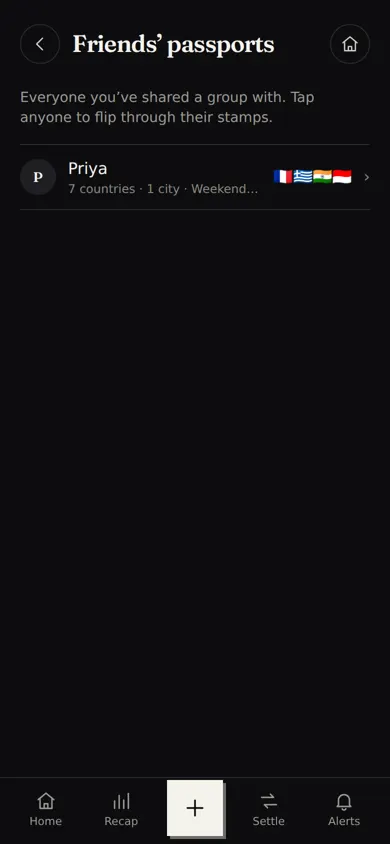
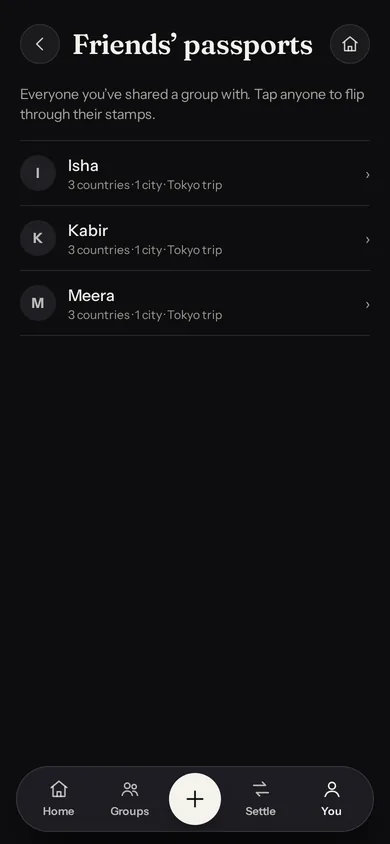
Guide: Tokyo trip and new-look pictures in How Loopin works (10 of 11), captions to match; the passport picture turns to the stamps page
Claude-Session: https://claude.ai/code/session_01DdYmojZ2oAK4s63cW98eWz

diff --git a/src/app/how-it-works/page.tsx b/src/app/how-it-works/page.tsx
@@ -301,7 +301,7 @@ export default async function HowItWorks() {
             <><strong>Moving out or in.</strong> Loopin works out their share for the days they stayed, who takes over their deposit, and the final payments.</>,
           ]}
         />
-        <Screen src="/guide/flat-month.webp" alt="A flat's This month screen: your share, what you're owed, and the bills coming up" caption="A flat’s “This month”: bills coming up, one tap to enter electricity" />
+        <Screen src="/guide/flat-month.webp" alt="A flat's This month screen: your share, what you're owed, and the bills coming up" caption="A flat’s “This month”: your share, what you’re owed, and bills, shopping, budget and deposit" />
         <p>Reminders (the day before a bill, and on your settle-up day) are off until you switch them on in the group’s settings.</p>
       </Section>
 
@@ -316,7 +316,7 @@ export default async function HowItWorks() {
           share, with one tap to even out. Saving for something? Start a <strong>goal</strong> and each tap “I set money aside”. The money stays
           in your own accounts.
         </p>
-        <Screen src="/guide/couple-month.webp" alt="A couple's This month screen: spent together, you're ahead, and a savings goal" caption="A couple’s month: who’s ahead, where it went, the Bali fund" />
+        <Screen src="/guide/couple-month.webp" alt="A couple's This month screen: spent together this month, and who's ahead" caption="A couple’s month: spent together, and who’s ahead" />
       </Section>
 
       <div id="pot" className="scroll-mt-4" />
@@ -347,7 +347,7 @@ export default async function HowItWorks() {
         </p>
         <Screens
           a={{ src: "/guide/story-trip.webp", alt: "A trip story: a photo of the beach with a quirky caption", caption: "A trip coming up" }}
-          b={{ src: "/guide/story-pot.webp", alt: "A game night story: everyone's result as bars", caption: "Last night’s game" }}
+          b={{ src: "/guide/story-pot.webp", alt: "A game night story: who came out ahead", caption: "Last night’s game" }}
         />
       </Section>
 

diff --git a/scripts/screenshots.ts b/scripts/screenshots.ts
@@ -1377,9 +1377,17 @@ if (!hosted && !desktop && !ios) {
       ["GD-trip-report", `${t}/report`],
       ["GD-wrapped-total", `${t}/wrapped`, wrappedAt("total")],
       ["GD-wrapped-receipt", `${t}/wrapped`, wrappedAt("splurge")],
+      // Turn pages until the first page of stamps is the one on screen (the map and badges come first).
       ["GD-passport-stamps", "/passport?book=1", book(async (p) => {
-        await p.getByRole("button", { name: "Next page" }).click();
-        await p.waitForTimeout(700);
+        const onScreen = async () => {
+          const b = await p.locator("[data-stamp-page]").first().boundingBox();
+          return Boolean(b && b.x >= 0 && b.x + b.width <= (p.viewportSize()?.width ?? 390) + 1);
+        };
+        for (let k = 0; k < 6 && !(await onScreen()); k++) {
+          await p.getByRole("button", { name: "Next page" }).click();
+          await p.waitForTimeout(700);
+        }
+        if (!(await onScreen())) throw new Error("no page of stamps came on screen");
       })],
       ["GD-friends-passports", "/passport/friends"],
       ["GD-story-pot", "/", async (p) => {
